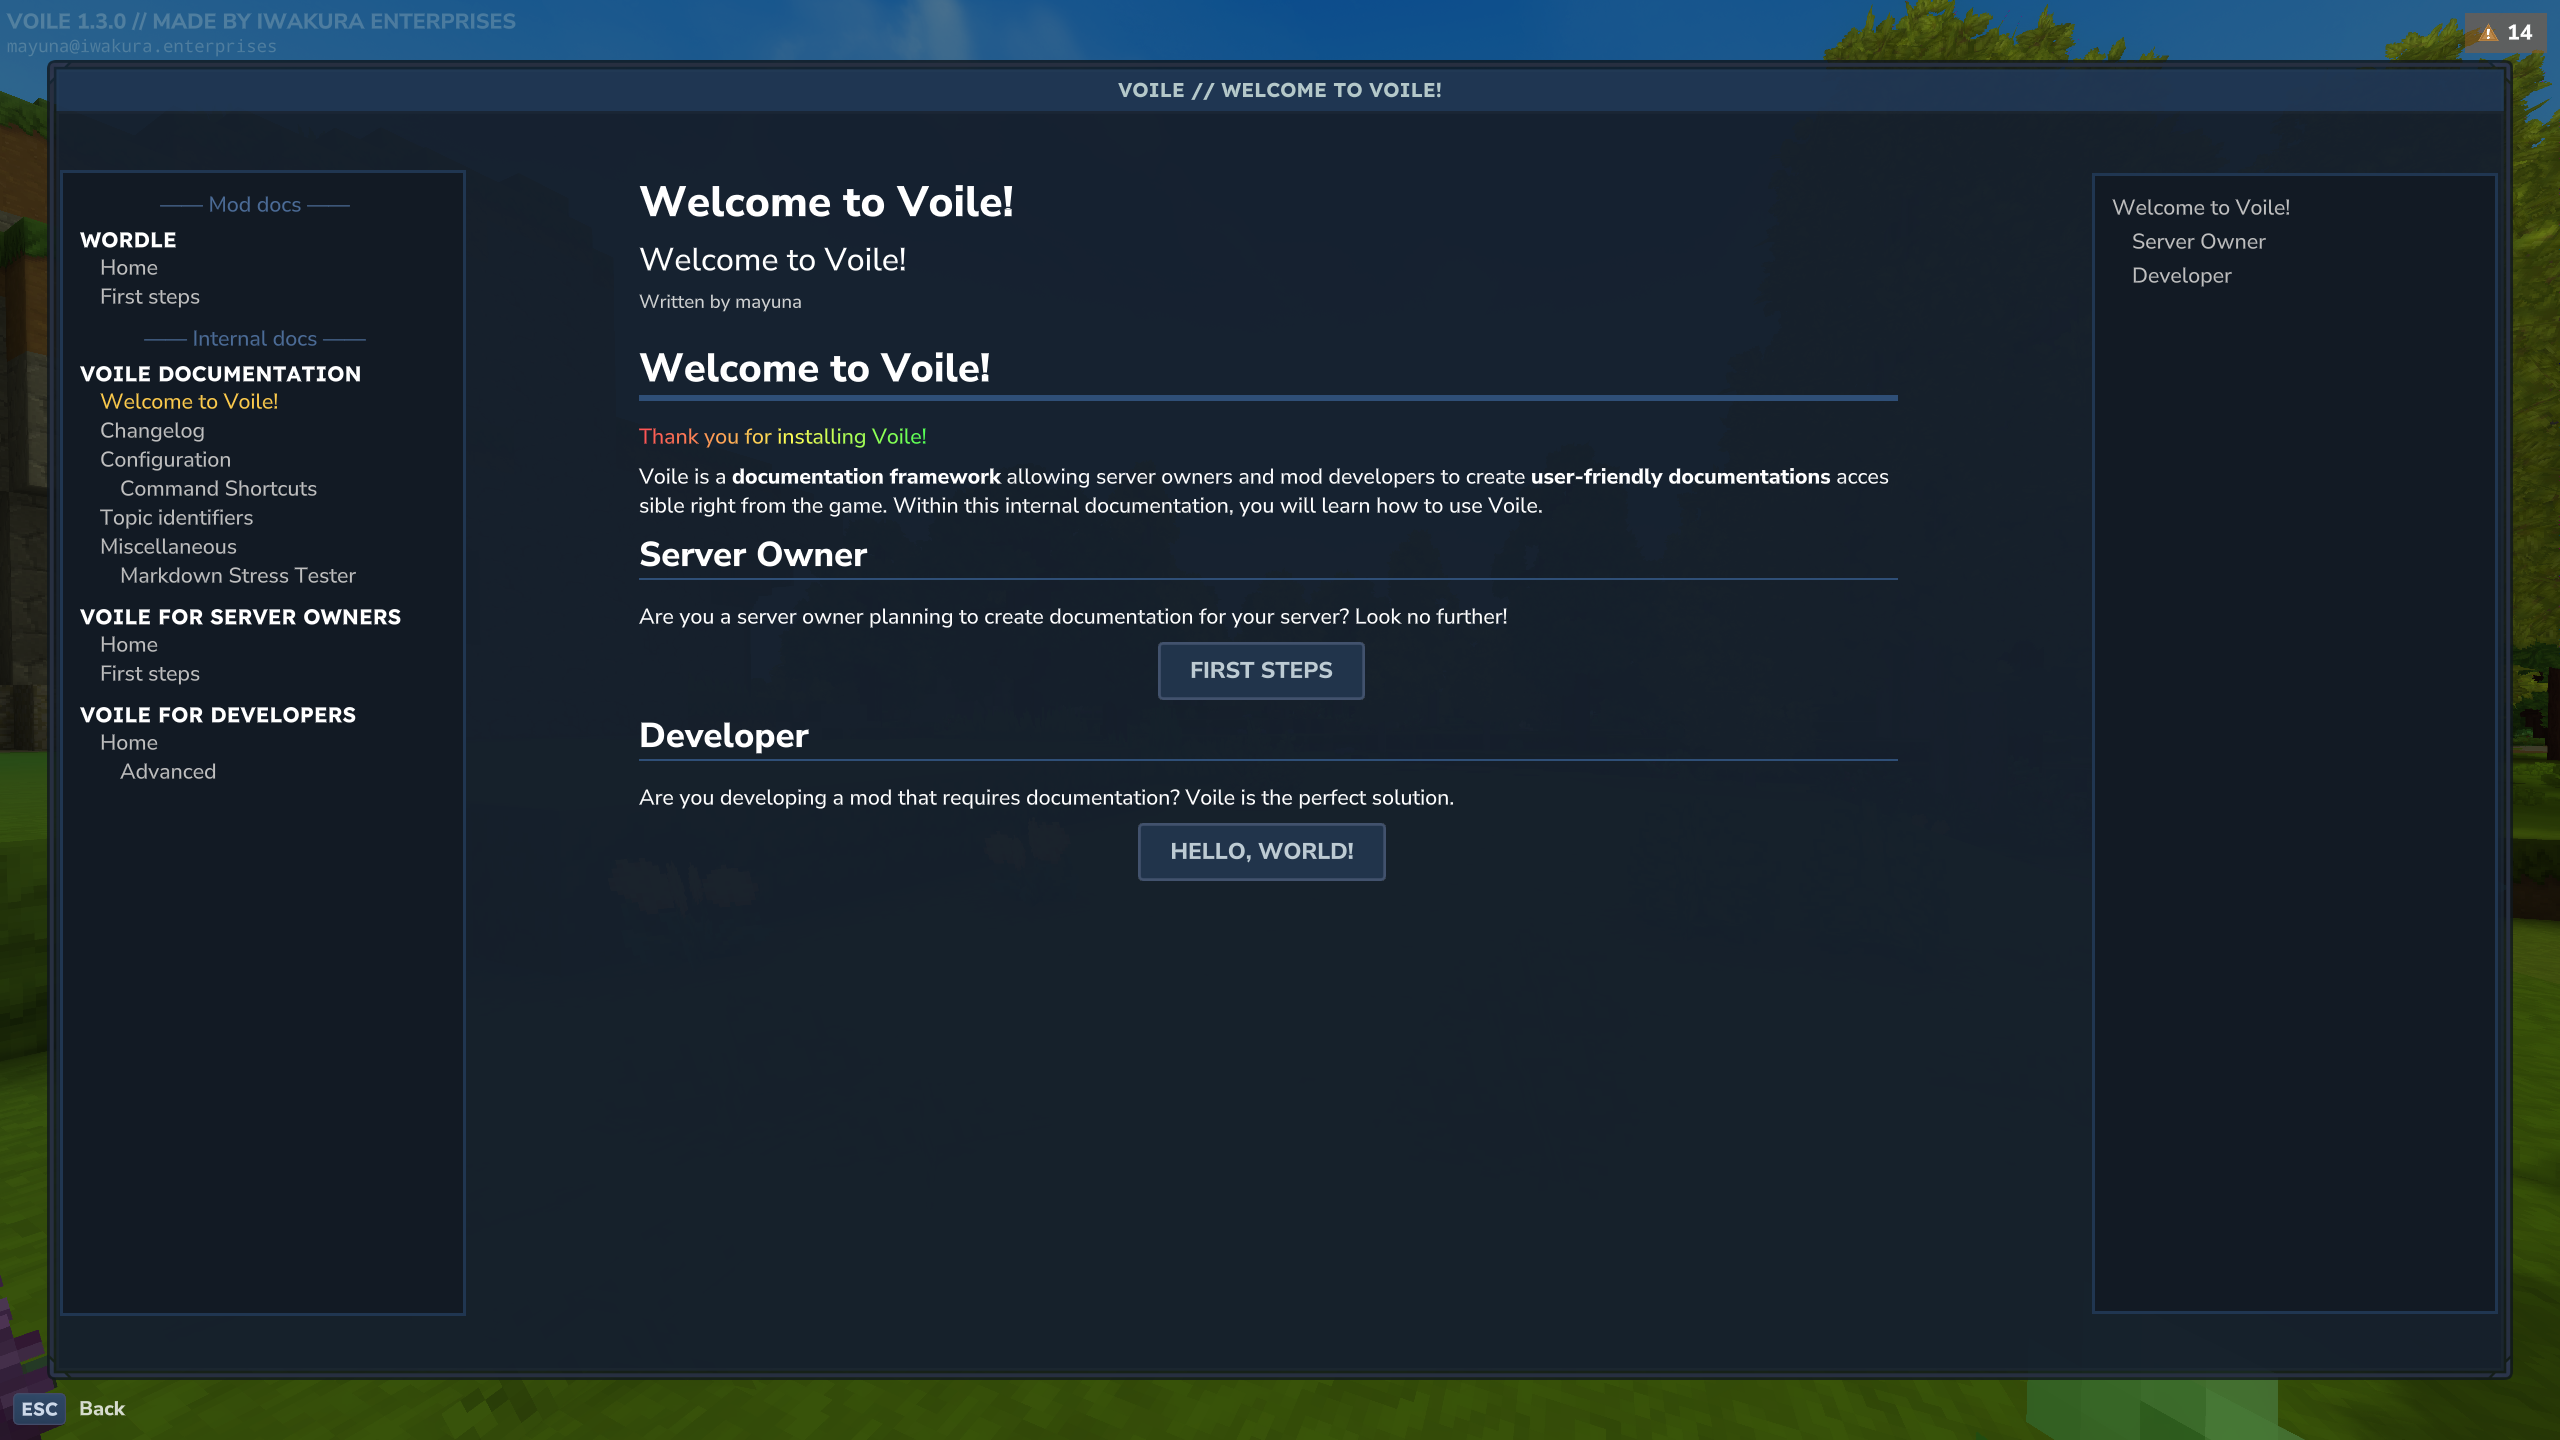
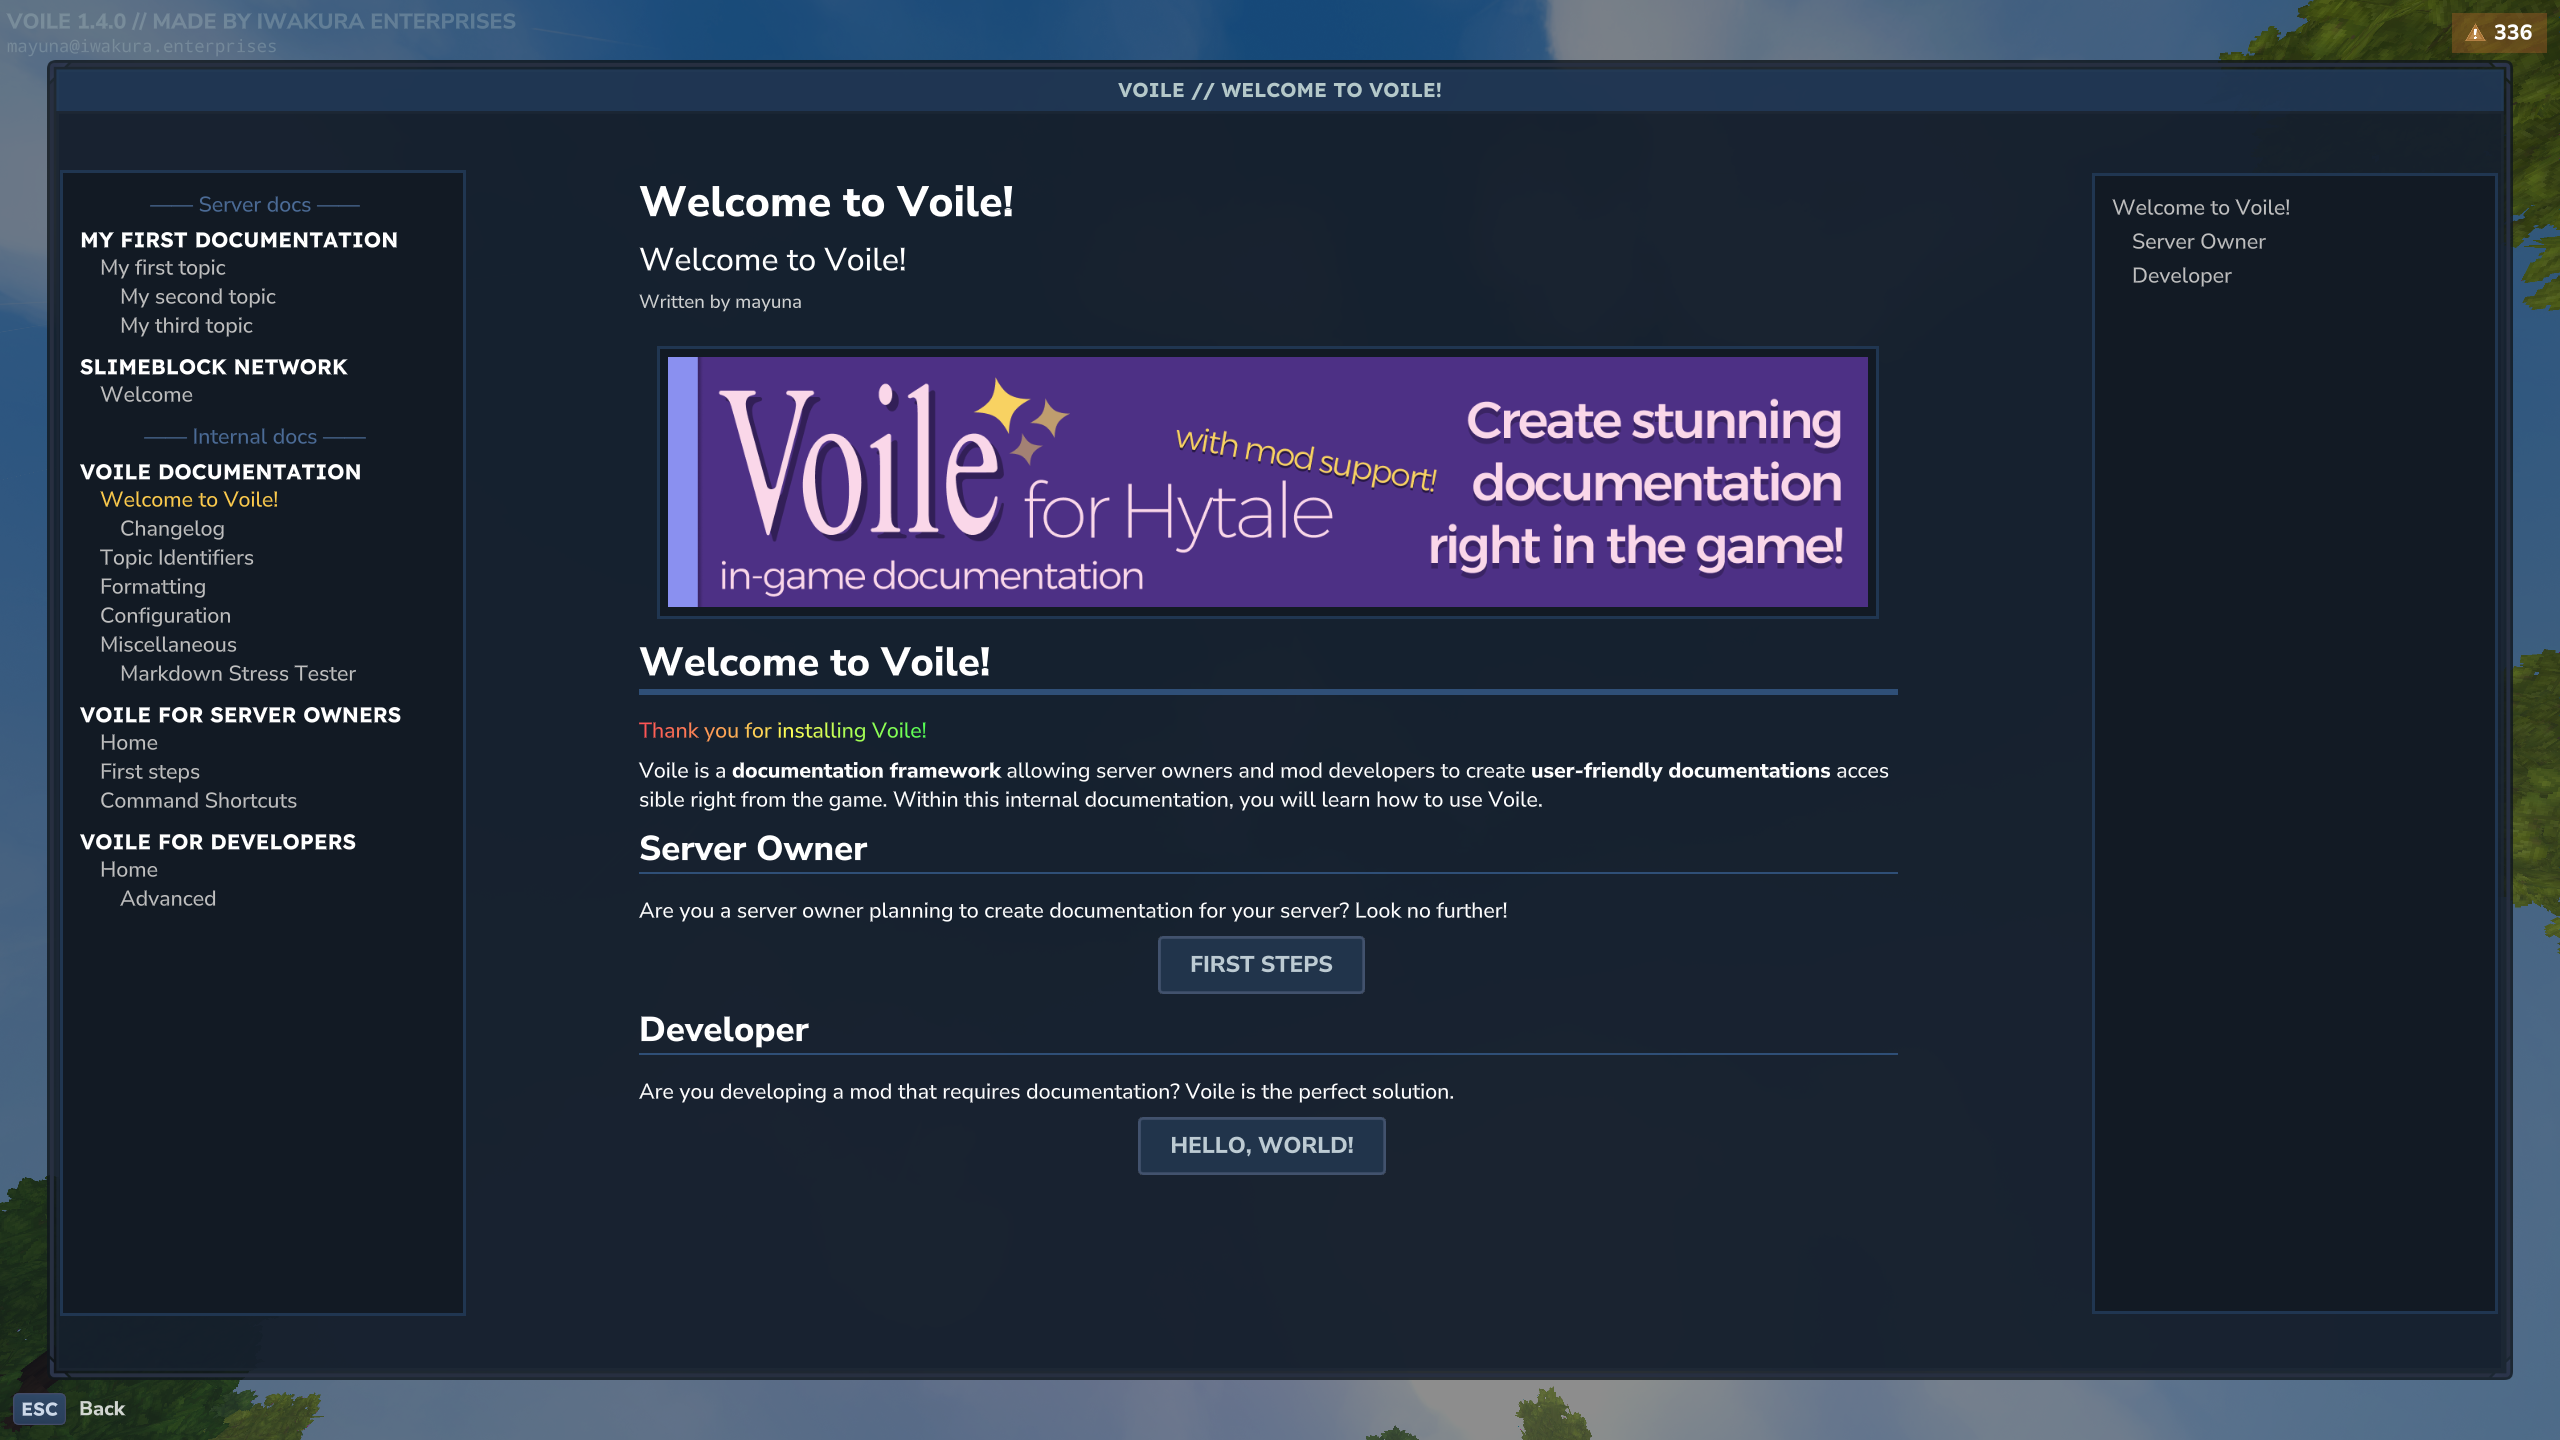
feat: Updated Voile documentation with image functionality

diff --git a/Writerside/topics/hytale-docs-formatting.md b/Writerside/topics/hytale-docs-formatting.md
@@ -19,6 +19,133 @@ As of Voile 1.3.0, some of the elements are not yet supported:
 
 </warning>
 
+
+## Images
+
+As of version **1.4.0** Voile supports images. Image syntax follows the standard Markdown syntax with an additional
+features. Images are always rendered in the middle of the topic.
+
+```
+![Alternative text](image-source)
+```
+
+![Voile Welcome screenshot](voile-welcome-screenshot.png)
+
+An image can be sourced from multiple locations:
+- **Resource asset**; all images located in the `Common/` resource
+- **File system image**; images that are located in `mods/IwakuraEnterprises_Voile/` and/or relative to server topic file.
+- **Online image**; any online image that can be downloaded.
+
+```
+![Voile Banner](UI/Custom/Docs/Images/voile_banner.png)
+```
+
+If image fails to load or the runtime images are disabled in the configuration, the "Image not found" and
+"Images are disabled" images will be shown.
+
+### Image resizing
+
+Additionally, you may also override image's resolution. This can be done in the `[]` block by specifying `{widthxheight}`
+at the end of the alternative text.
+
+```
+![Alternative text {300x200}](image-source)
+```
+
+The example will resize the image to 300 pixels of width and 200 pixels of height. You may also specify **0** as one of
+the sizes, Voile will resize the image with respect to the **aspect ratio**.
+
+```
+![Alternative text {300x0}](image-source)
+```
+
+This example will show image rescaled to 300 pixels of width with respect to its aspect ratio.
+
+> Specifying **0x0** or any invalid value will ignore the resize hint.
+>
+> Also, the maximum width of an image is 900 pixels (if it's too wide, it will be resized with respect to
+> the aspect ratio).
+
+### One paragraph, multiple images
+
+Voile's Markdown renderer supports multiple images in one paragraph.
+
+```
+![Image 1](image-source) ![Image 2](image-source)
+
+![Image 1](image-source)
+![Image 2](image-source)
+```
+
+This example will show two rows of images.
+
+> Images cannot be added to paragraphs with text. The images will appear under the paragraph with incorrect
+> sizing.
+
+### Image sources
+
+#### Resource assets
+
+You may reference any images that are in the `Common/` resources. You must provide fully qualified path to the image's
+resource in order to be properly displayed, omitting the `Common/` directory.
+
+```
+![Voile Banner](UI/Custom/Docs/Images/voile_banner.png)
+```
+
+#### File system image
+
+You may also reference any image located in the `mods/IwakuraEnterprises_Voile/` directory. Voile first looks for images
+**relative to the topic's file** and then checks from the **root of its plugin data directory**.
+
+> Images loaded by this strategy are automatically converted to `.png`, so Hytale can display them.
+
+For example, you may have this kind of structure:
+
+```
+mods/IwakuraEnterprises_Voile/
+  documentation/
+    ServerDocs/
+      my-topic.md
+      topic-images/
+        welcome-banner.png
+  weapons/
+    misc/
+      weapon.png
+```
+
+When referencing the `welcome-banner.png` from `my-topic.md`, you may reference the file with two ways:
+1. `topic-images/welcome-banner.png` -> relative to the `my-topic.md`
+2. `documentation/ServerDocs/topic-images/welcome-banner.png` -> absolute path starting in the
+   `mods/IwakuraEnterprises_Voile/` directory.
+
+The other image in the example can be referenced in these two ways:
+1. `../../weapons/misc/weapon.png`
+2. `weapons/misc/weapon.png`
+
+<warning>
+You cannot link images outside the plugin's data directory due to security reasons.
+</warning>
+
+#### Online images
+
+You may also reference online image. This is done by specifying the URL to the image. The URL must start with `http`
+or `https`, otherwise it won't be treated as an online image.
+
+The URL must point directly to the image, so for example `https://i.imgur.com/image-id.jpeg` will download the image from imgur.
+
+> Images loaded by this strategy are automatically converted to `.png`, so Hytale can display them.
+
+Online images are downloaded to `mods/IwakuraEnterprises_Voile/runtime_images/` and are subject to eventual deletion,
+either when starting the server or when their TTL expires (defaults to one day). See **Configuration** topic for more info.
+
+<warning>
+
+Online images should be used only in the server documentations. Mod developers **should always**
+prefer referencing images from assets. This greatly improves loading time and UX.
+
+</warning>
+
 ## Colors
 
 The markdown renderer supports various color formatting. This is done thanks to

diff --git a/Writerside/topics/hytale-docs-configuration.md b/Writerside/topics/hytale-docs-configuration.md
@@ -14,6 +14,7 @@ Using the configuration file, `config.json`, you're able to configure various pa
   (e.g. you may hide this Internal documentation type on production servers). Available types: `SERVER`, `MOD`, `INTERNAL`
 - `validator` - validator configuration (see below)
 - `commandShortcuts` - command shortcuts configuration (see below)
+- `runtimeImageAssets` - runtime image assets configuration (see below)
 
 ### Validator
 
@@ -39,13 +40,26 @@ Command shortcuts allow you to create quick-and-easy commands to open various do
   - `name` - name of the command shortcut. This is what the player types in chat (e.g. `rules` -> `/rules`)
   - `topicIdentifier` - the identifier for topic to be opened by the command shortcut. For more information about topic identifiers, see below.
 
+### Runtime Image Assets
+
+Runtime image assets are images that are loaded from file system or online.
+
+- `enabled` - enables/disables loading runtime image assets. Resource images will still be shown. Runtime imags
+  will be replaced by "Images are disabled" images.
+- `maxImageDownloadFileSizeKb` - specifies the maximum file size of an online image in kilobytes.
+- `inMemoryTimeToLiveSeconds` - specifies the maximum TTL in seconds for a runtime image asset to be loaded in memory.
+  Defaults to one hour. Lower values can make the interface feel unresponsive and laggy!
+- `downloadedImagesTimeToLiveSeconds` - specifies the maximum TTL in seconds for downloaded online image on the file system.
+  Defaults to one day. Lower values can make the interface feel unresponsive and laggy!
+
+For more information about images, see the **Formatting** topic.
+
 ## Example configuration file
 
 ```json
 {
   "enabled": true,
-  "outOfBoxExperience": false,
-  "updateCheckerEnabled": true,
+  "outOfBoxExperience": true,
   "loadDocumentationsFromDirectory": "documentation",
   "defaultTopicIdentifier": "IwakuraEnterprises:MyDocumentation:welcome",
   "enabledTypes": [
@@ -73,6 +87,12 @@ Command shortcuts allow you to create quick-and-easy commands to open various do
         "topicIdentifier": "IwakuraEnterprises:MyDocumentation:test"
       }
     ]
+  },
+  "runtimeImageAssets": {
+    "enabled": true,
+    "maxImageDownloadFileSizeKb": 2048,
+    "inMemoryTimeToLiveSeconds": 3600,
+    "downloadedImagesTimeToLiveSeconds": 86400
   }
 }
 ```
